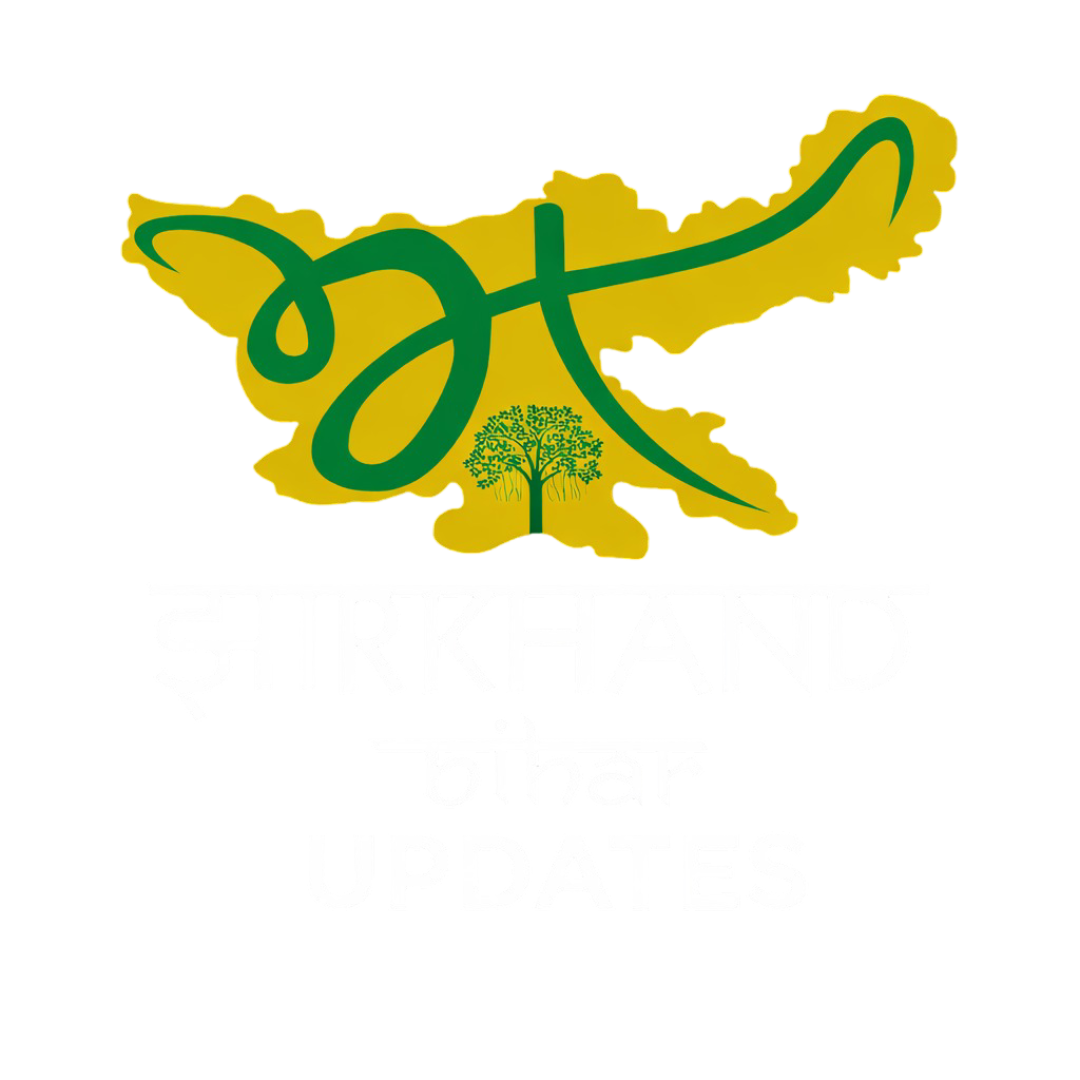
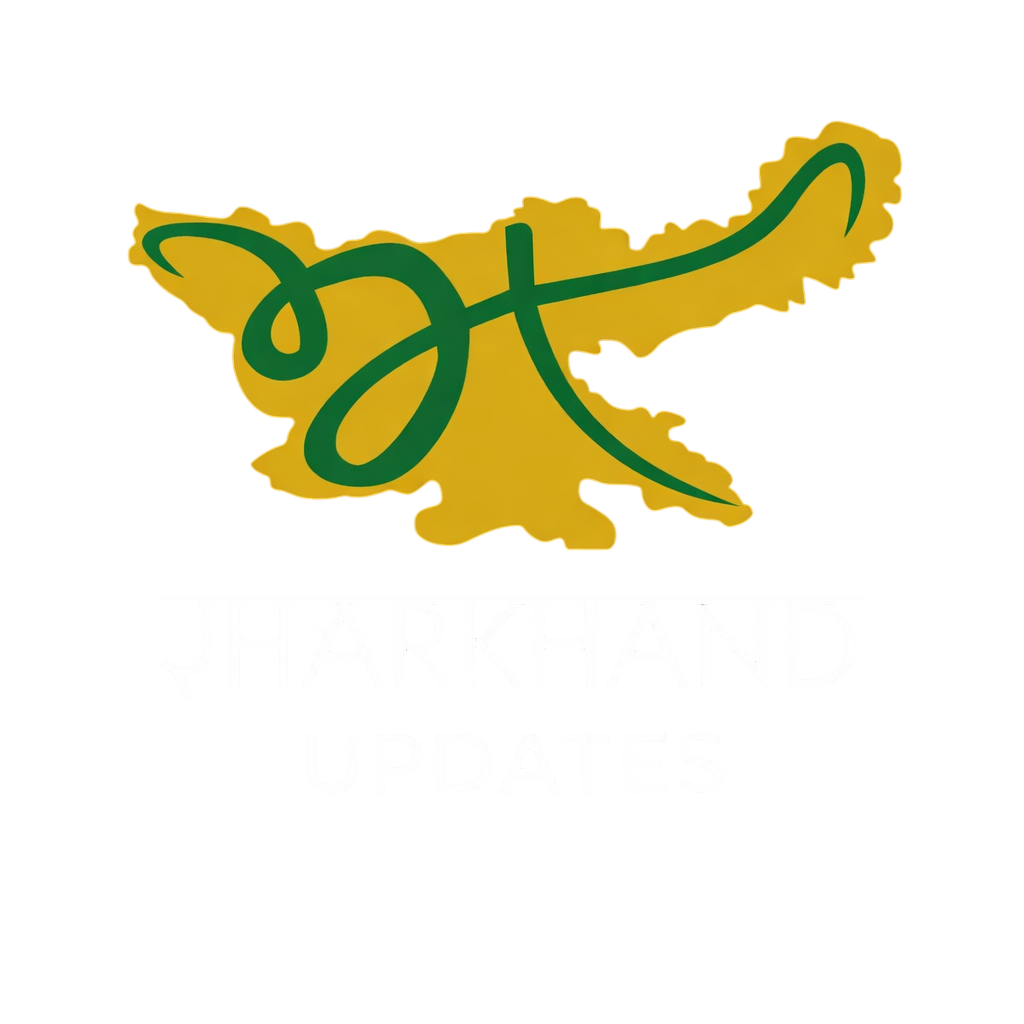
Update: Testimonials marquee auto-scroll and premium design added

Changed region(s): [[0.0938, 0.0625, 0.9062, 0.5625]]

diff --git a/src/components/Sections/PartnershipSection.tsx b/src/components/Sections/PartnershipSection.tsx
@@ -182,11 +182,11 @@ const PartnershipSection = ({ opacity, scale }: PartnershipSectionProps) => {
                   className="w-full h-[260px] md:h-[400px] object-cover"
                 />
 
-                {/* Trusted Partner */}
+                {/* Trusted Partner - Forced text-black for visibility on light bg in dark mode */}
                 <motion.div
                   animate={{ y: [0, -10, 0] }}
                   transition={{ duration: 3, repeat: Infinity, ease: "easeInOut" }}
-                  className="absolute top-6 md:top-10 right-4 md:right-8 bg-white/90 backdrop-blur px-3 md:px-4 py-1.5 md:py-2 rounded-xl shadow-xl flex items-center gap-2"
+                  className="absolute top-6 md:top-10 right-4 md:right-8 bg-white/90 backdrop-blur px-3 md:px-4 py-1.5 md:py-2 rounded-xl shadow-xl flex items-center gap-2 text-black"
                 >
                   <span className="text-xs font-bold">Trusted Partner</span>
                   <span className="flex items-center gap-1 bg-black text-white px-2 py-0.5 rounded text-[10px]">
@@ -195,11 +195,11 @@ const PartnershipSection = ({ opacity, scale }: PartnershipSectionProps) => {
                   </span>
                 </motion.div>
 
-                {/* Regional Reach */}
+                {/* Regional Reach - Forced text-black for visibility on light bg in dark mode */}
                 <motion.div
                   animate={{ y: [0, 10, 0] }}
                   transition={{ duration: 3.5, repeat: Infinity, ease: "easeInOut" }}
-                  className="absolute bottom-6 md:bottom-10 left-4 md:left-8 bg-white/90 backdrop-blur px-3 md:px-4 py-1.5 md:py-2 rounded-xl shadow-xl flex items-center gap-2"
+                  className="absolute bottom-6 md:bottom-10 left-4 md:left-8 bg-white/90 backdrop-blur px-3 md:px-4 py-1.5 md:py-2 rounded-xl shadow-xl flex items-center gap-2 text-black"
                 >
                   <span className="text-xs font-bold">Regional Reach</span>
                   <span className="flex items-center gap-1 bg-black text-white px-2 py-0.5 rounded text-[10px]">
@@ -217,8 +217,8 @@ const PartnershipSection = ({ opacity, scale }: PartnershipSectionProps) => {
       {/* Modal */}
       {openForm && (
         <div className="fixed inset-0 z-50 bg-black/70 flex items-center justify-center p-4">
-          <div className="bg-background rounded-lg w-full max-w-xl max-h-[90vh] overflow-y-auto p-6 relative">
-            <button onClick={() => setOpenForm(false)} className="absolute top-4 right-4">
+          <div className="bg-background rounded-lg w-full max-w-xl max-h-[90vh] overflow-y-auto p-6 relative text-foreground">
+            <button onClick={() => setOpenForm(false)} className="absolute top-4 right-4 text-foreground hover:opacity-70 transition-opacity">
               <X />
             </button>
 

diff --git a/src/components/Sections/BrandIntroSection.tsx b/src/components/Sections/BrandIntroSection.tsx
@@ -22,7 +22,7 @@ const BrandIntroSection = () => {
             >
               <img src="/JBU.png" className="w-28 md:w-36 mb-4" />
               <h2 className="text-4xl md:text-6xl font-black text-white">
-                JharkhandBihar <span className="block text-white/70">Update</span>
+                Jharkhand <span className="block text-white/70">Update</span>
               </h2>
             </motion.div>
 
@@ -32,7 +32,7 @@ const BrandIntroSection = () => {
               transition={{ duration: 0.7 }}
             >
               <p className="text-lg text-white/80 max-w-md">
-                JharkhandBihar Update is a trusted regional digital news platform delivering authentic stories across Jharkhand and Bihar.
+                Jharkhand Update is a trusted regional digital news platform delivering authentic stories across Jharkhand and Bihar.
               </p>
               <div className="h-0.5 w-12 bg-white/30 mt-8" />
             </motion.div>
@@ -40,14 +40,20 @@ const BrandIntroSection = () => {
         </div>
 
         <div className="absolute bottom-6 left-1/2 -translate-x-1/2 z-20 w-[90%] md:w-auto">
-          <div className="flex items-center justify-between bg-[#0f3f2a] border border-white/20 rounded-full px-5 py-3 shadow-lg w-full md:w-auto">
+          {/* Added anchor tag for redirecting to the website */}
+          <a 
+            href="https://www.jharkhandupdates.com" 
+            target="_blank" 
+            rel="noopener noreferrer"
+            className="flex items-center justify-between bg-[#0f3f2a] border border-white/20 rounded-full px-5 py-3 shadow-lg w-full md:w-auto hover:bg-[#145338] transition-colors cursor-pointer"
+          >
             <span className="text-white/90 text-sm md:text-base">
-              www.jharkhandbiharupdates.com
+              www.jharkhandupdates.com
             </span>
             <div className="ml-4 w-9 h-9 flex items-center justify-center border border-white/30 rounded-full">
               🔍
             </div>
-          </div>
+          </a>
         </div>
 
       </div>
